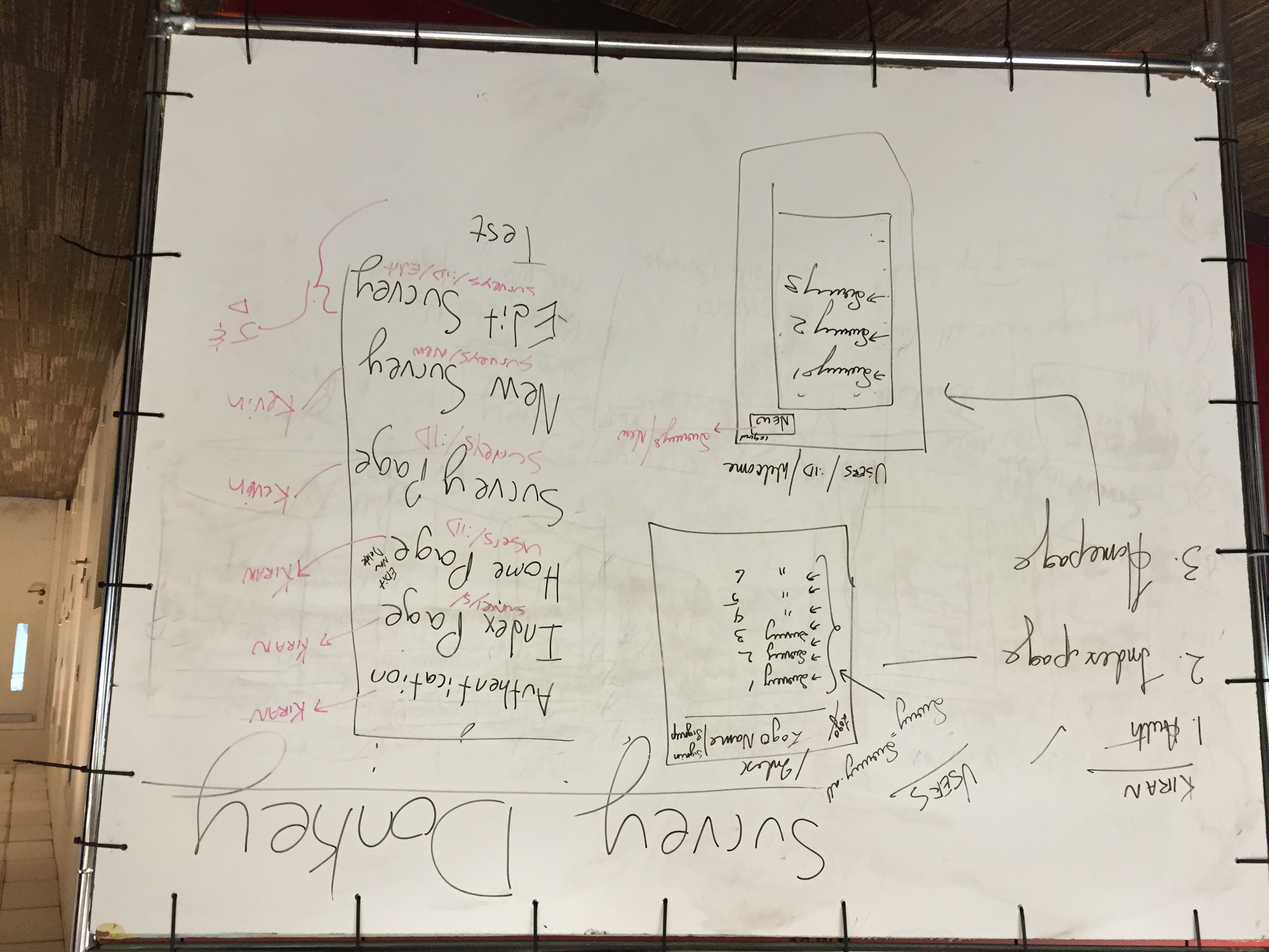
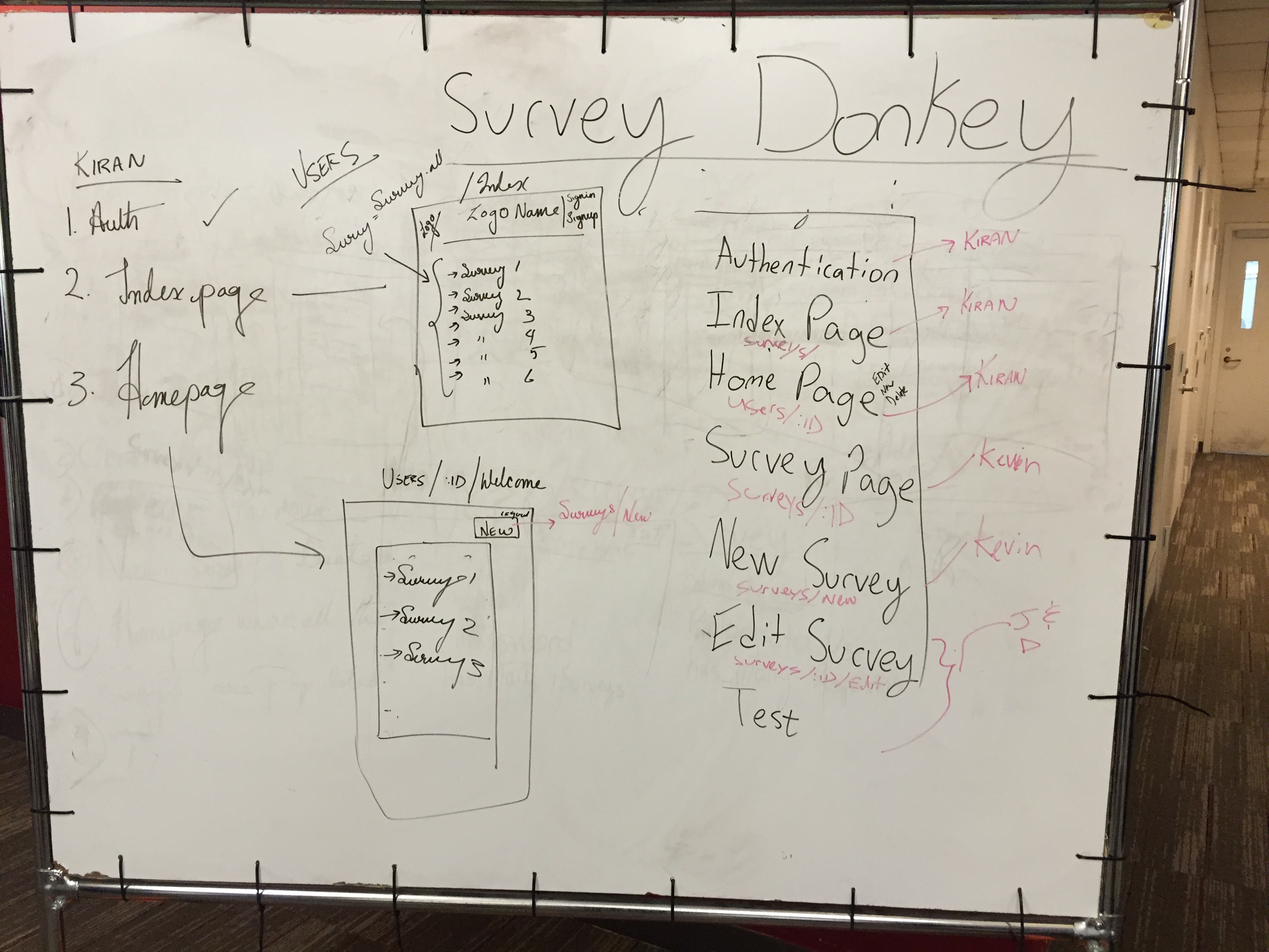
added the homepage

diff --git a/app/controllers/users.rb b/app/controllers/users.rb
@@ -1,0 +1,11 @@
+get '/users/:id' do
+  @user = User.find(params[:id])
+  @survey = Survey.all
+  erb :'users/home'
+end
+
+
+get '/authentication/logout' do
+  session[:user_id] = nil
+  redirect '/'
+end
